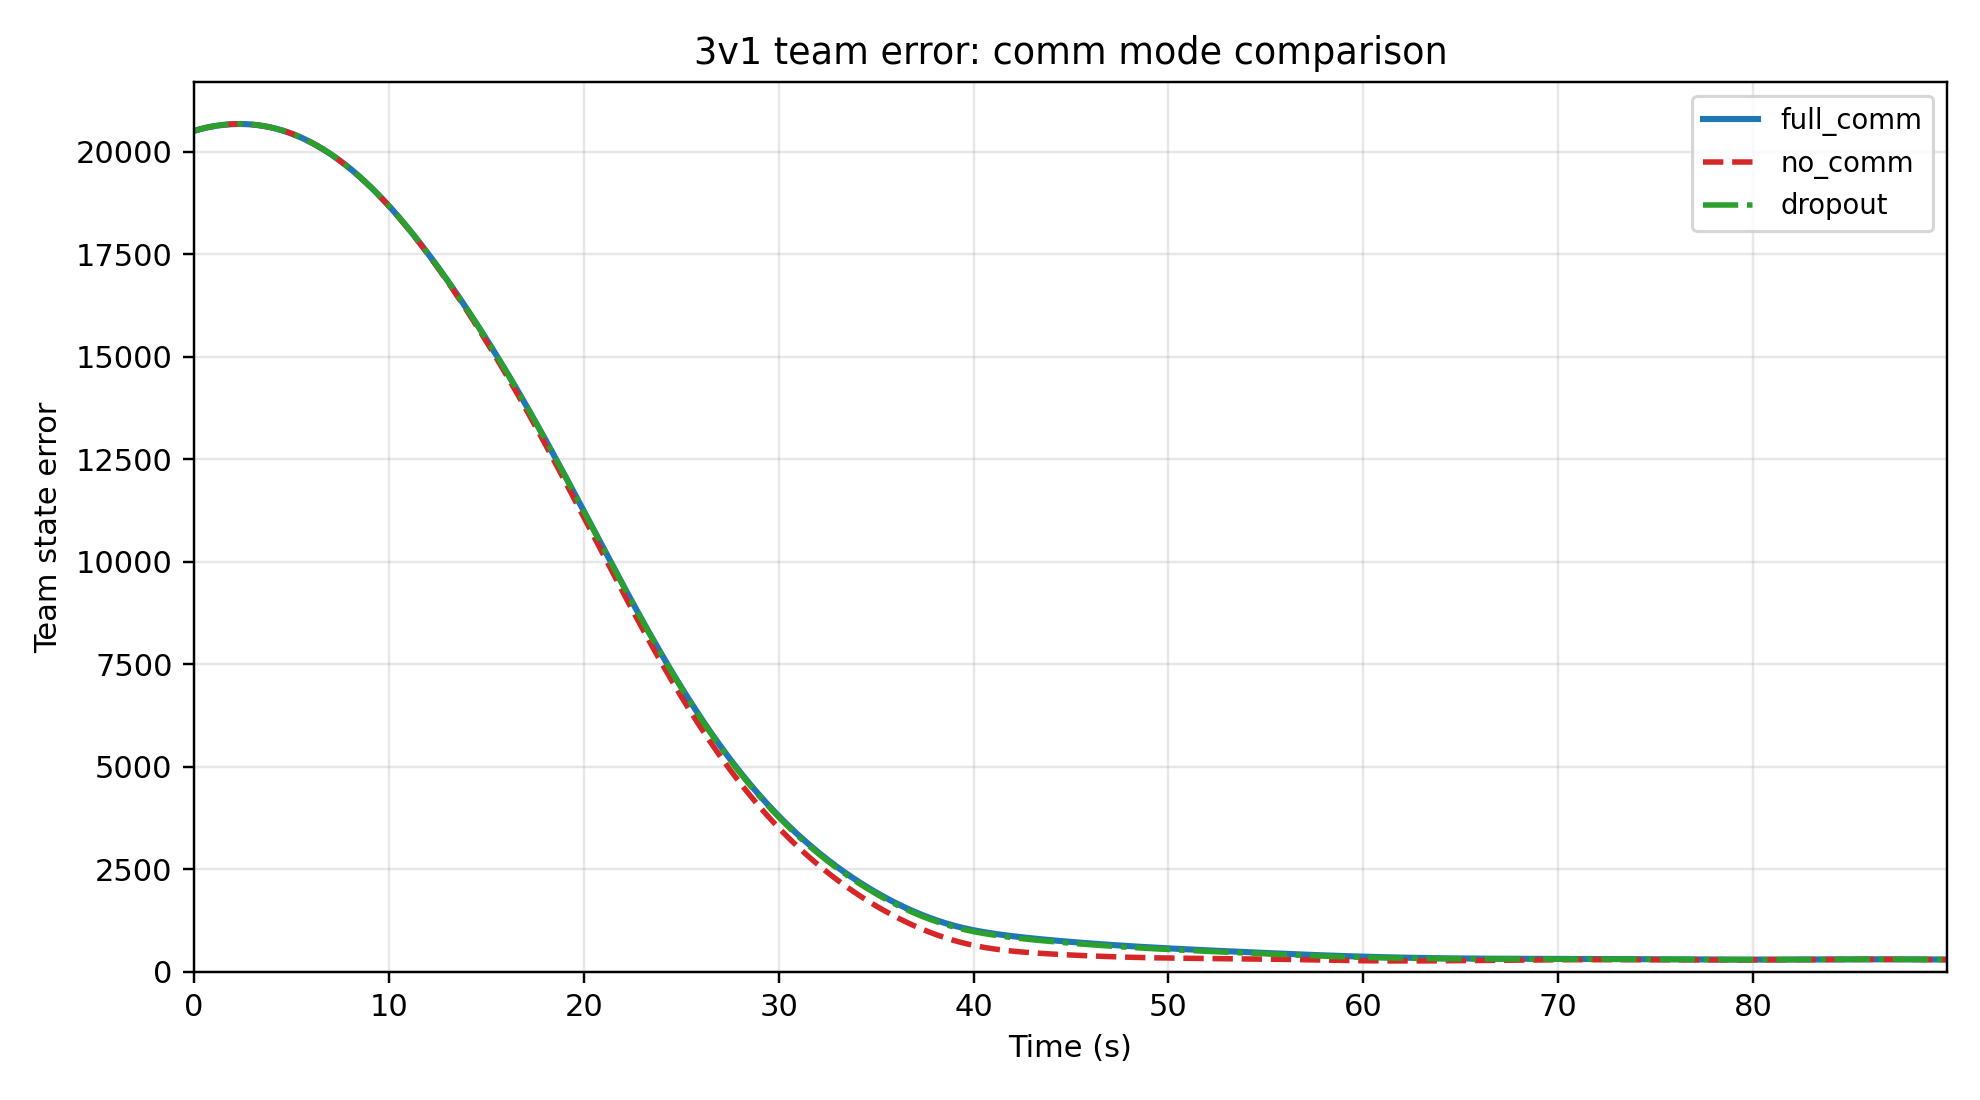
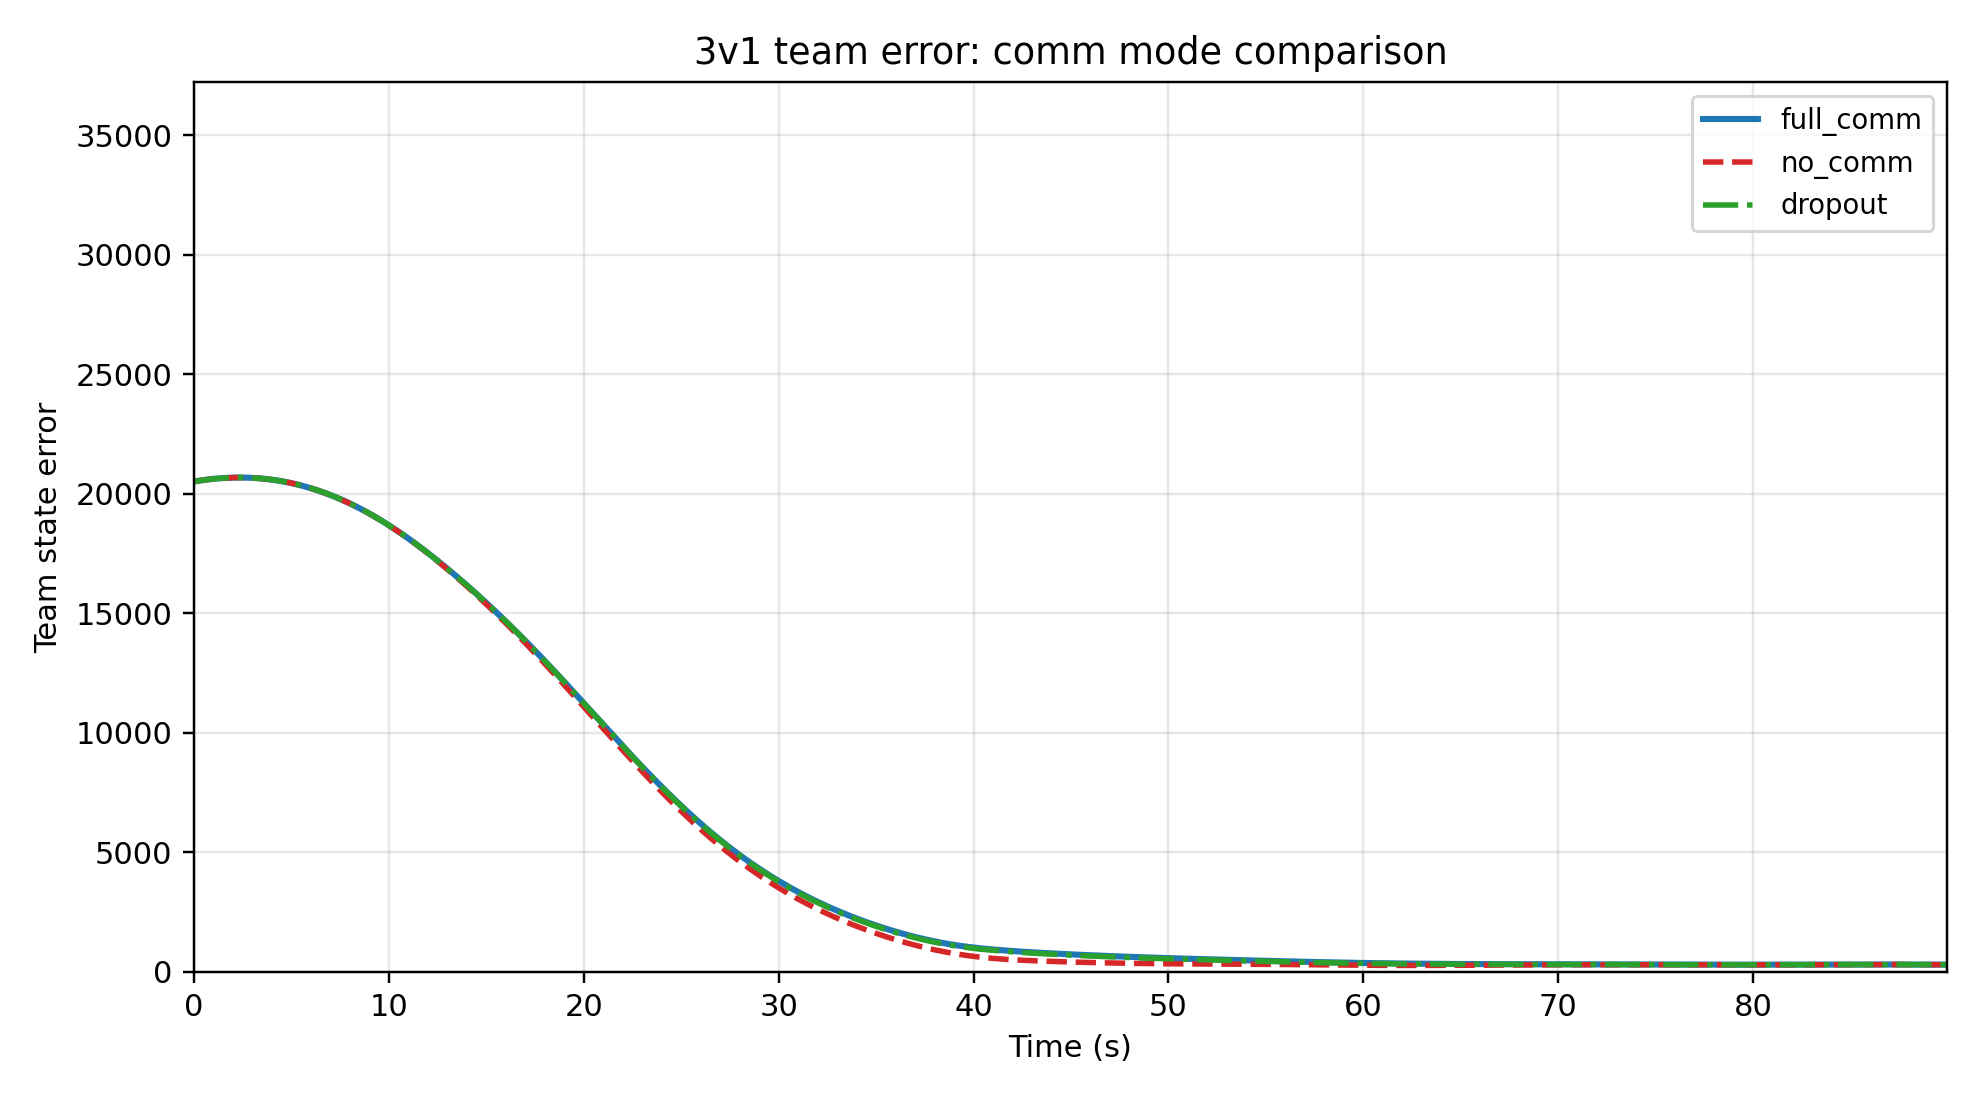
fix: scale Y-axis to make converged errors visually closer to zero
Expand Y-axis top to ~2x peak value in error/team-error plots so
converged tails (100-300) appear as <3% of the axis range instead
of ~5-7%, making convergence visually clearer.

diff --git a/mpe_game/repro_vsnac_mpe_comm/mpe_repro/plotting.py b/mpe_game/repro_vsnac_mpe_comm/mpe_repro/plotting.py
@@ -90,7 +90,9 @@ def plot_assigned_state_errors(eval_result: EvalResult, dt: float, path: Path, t
     ax.set_ylabel("State error norm")
     ax.set_title(title)
     ax.set_xlim(0, t[-1])
-    ax.set_ylim(bottom=0)
+    # Push Y-top higher so converged tail looks flat near zero
+    peak = float(np.max(eval_result.assigned_errors))
+    ax.set_ylim(0, peak * 2.0)
     ax.grid(alpha=0.3)
     ax.legend()
     _save(fig, path)
@@ -351,7 +353,8 @@ def plot_team_error_compare(
     ax.set_ylabel("Team state error")
     ax.set_title(title)
     ax.set_xlim(0, t[-1])
-    ax.set_ylim(bottom=0)
+    peak = max(float(np.max(dynamic_team_errors[:n])), float(np.max(fixed_team_errors[:n])))
+    ax.set_ylim(0, peak * 1.8)
     ax.grid(alpha=0.3)
     ax.legend()
     _save(fig, path)
@@ -586,16 +589,18 @@ def plot_comm_comparison(
         "dropout": {"color": "#2ca02c", "linewidth": 1.8, "linestyle": "-."},
     }
     t_max = 0
+    peak = 0
     for label, result in results_dict.items():
         t = np.arange(result.team_errors.shape[0]) * dt
         t_max = max(t_max, t[-1])
+        peak = max(peak, float(np.max(result.team_errors)))
         style = style_map.get(label, {"color": "gray", "linewidth": 1.5, "linestyle": "-"})
         ax.plot(t, result.team_errors, label=label, **style)
     ax.set_xlabel("Time (s)")
     ax.set_ylabel("Team state error")
     ax.set_title(title)
     ax.set_xlim(0, t_max)
-    ax.set_ylim(bottom=0)
+    ax.set_ylim(0, peak * 1.8)
     ax.grid(alpha=0.3)
     ax.legend(fontsize=9)
     _save(fig, path)
